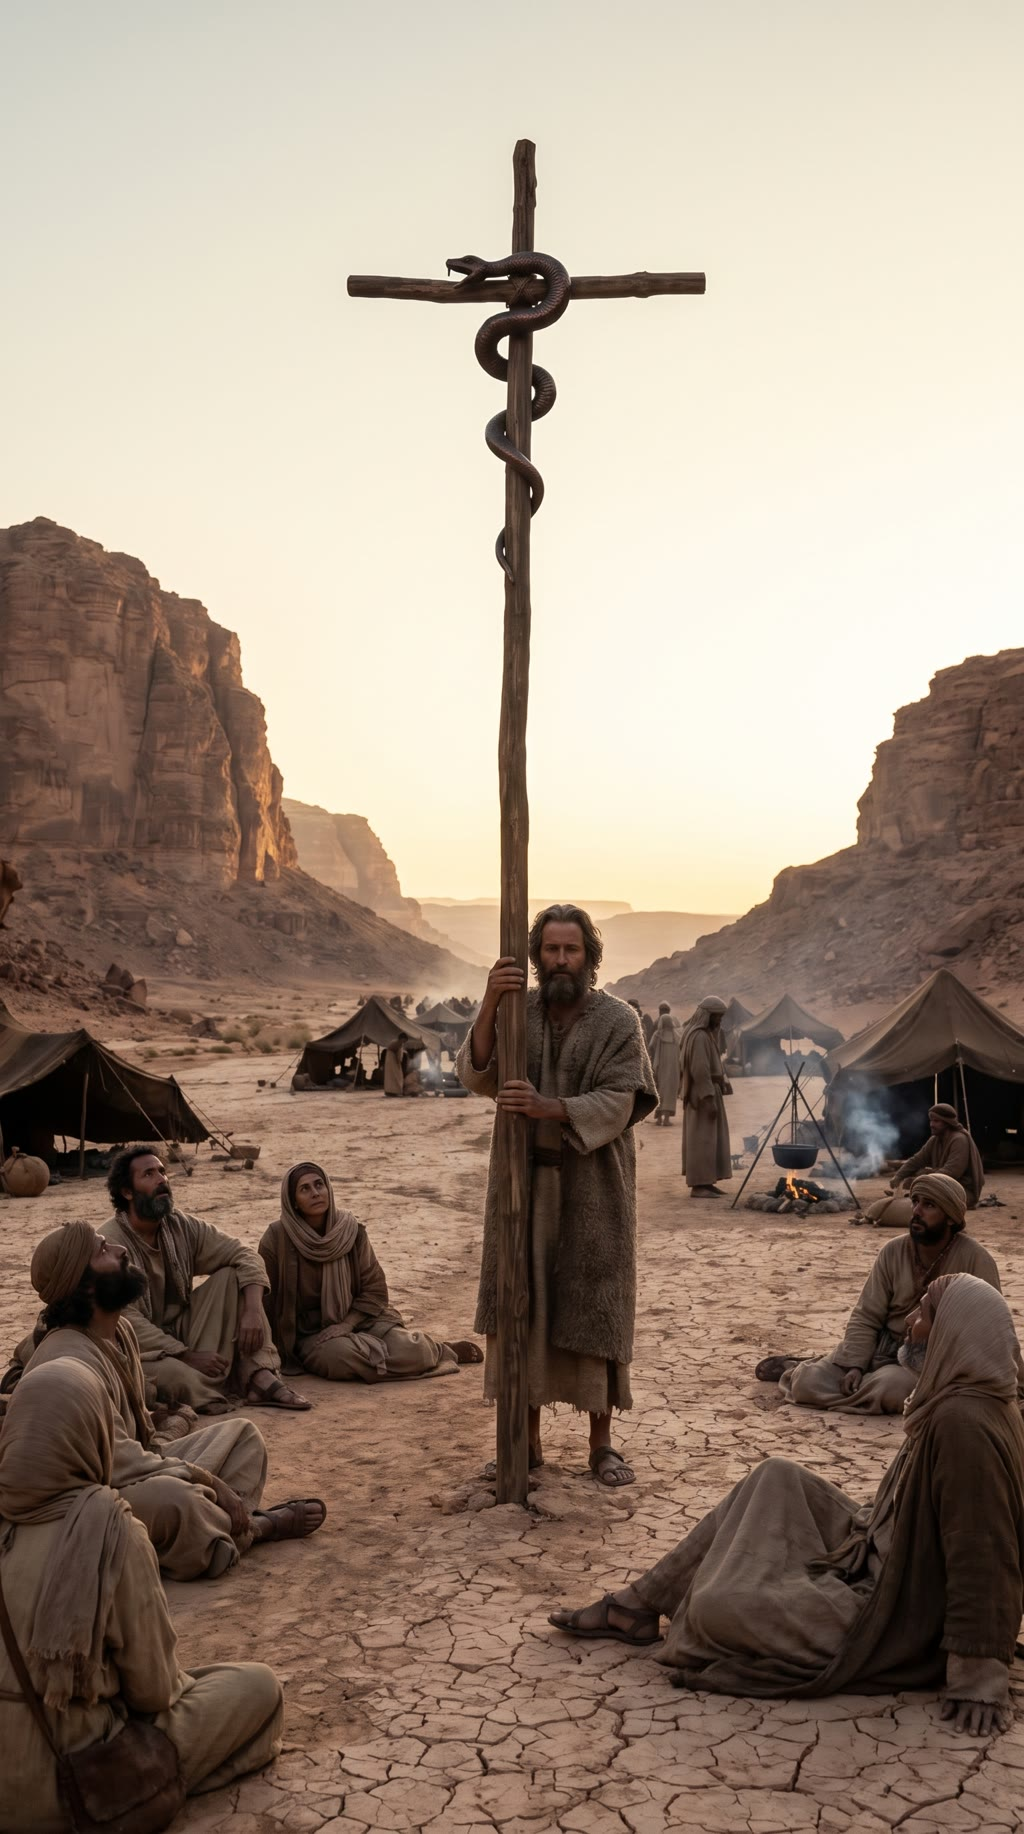
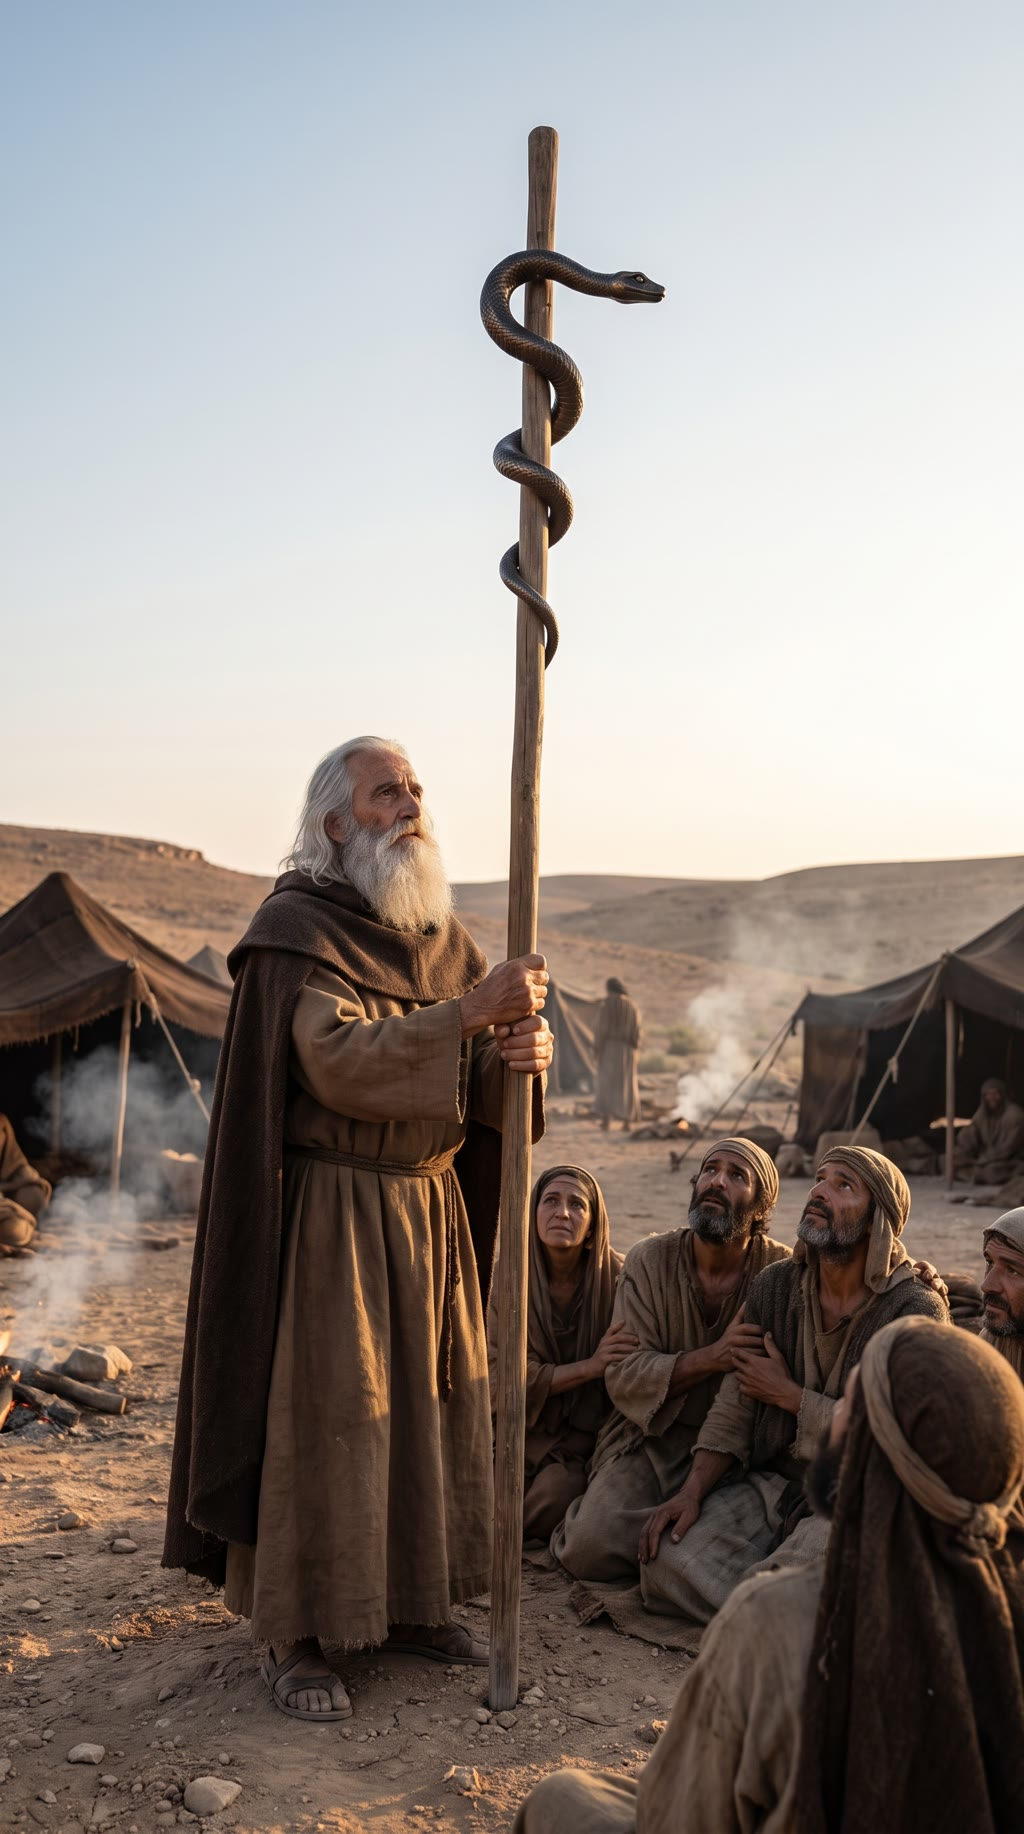
Replace row 140 serpent pole anchor

diff --git a/media-production-v2/build-140-bronze-serpent/QC.md b/media-production-v2/build-140-bronze-serpent/QC.md
@@ -33,6 +33,14 @@ Redo every picture with the serpent on the cross."*
 (b17, b18, b20, b21, b22, b23, b24). All other passing images and all narration are
 locked. Generation may begin only after `v2_prompt.py --check` passes.
 
+**Anchor gate:** `v2_prompt.py --check` = PASS (24 beats, v4). Regenerated b17
+once with `--no-plates` so the old crossbeam plate could not contaminate the
+replacement. Local vision = **PASS**: one tall bare vertical staff, no
+crossbeam/crosspiece/horizontal bar; bronze serpent coiled around it; canonical
+elderly white-haired/full-white-bearded Moses; one realistic coherent scene.
+Promoted this passing b17 as the new SERPENT-POLE plate for all seven pole
+beats. Cost: one required anchor generation, ~$0.13; meter $721.86→$721.99.
+
 ## ✅ SHIPPED — 2026-08-13 (A `Dev`, Opus runner, headless) — FIRST V2 CUT, b17 BLOCK CLEARED
 
 `numbers-21_the-bronze-serpent.mp4` · 24 realistic stills · 139.4s · AUDIO REBUILD
